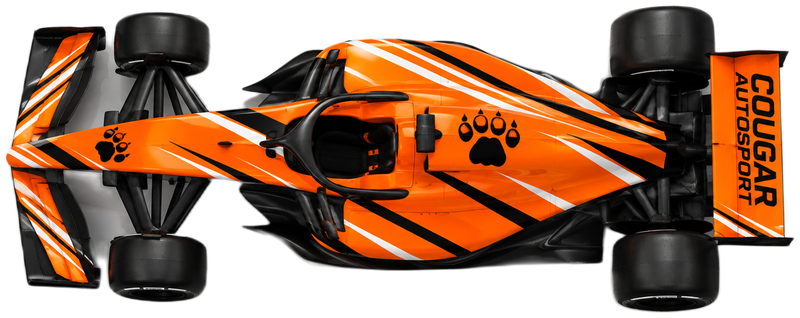
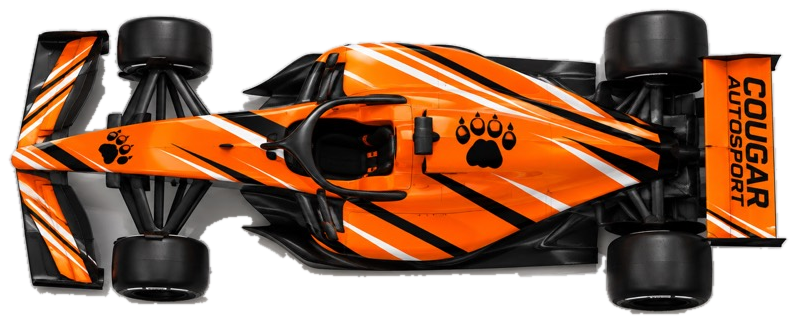
Second deck: top-view cars recut whole, wings and wheels back
u2net at 320px took the thin parts for background, so Drivetex and others
lost their front and rear wings and some wheels. scripts/recut-cars.py floods
the studio background in from the frame edge and keeps everything else. The
leading car on card 1 moves from -4% to 1% so the lane no longer clips its
front wing.

Claude-Session: https://claude.ai/code/session_01LKtdZbyseVsjRaEVm2KvNM

Changed region(s): [[0.0, 0.0, 0.9937, 0.9906], [0.813, 0.7925, 0.8432, 0.8208], [0.4517, 0.4528, 0.4818, 0.4811]]

diff --git a/src/WeeklyV2.jsx b/src/WeeklyV2.jsx
@@ -142,7 +142,7 @@ function FinishLine({ myTeam, oppTeam, outcome }) {
           backgroundImage: `repeating-linear-gradient(90deg, ${V.border2} 0 18px, transparent 18px 34px)` }} />
       ))}
       {car(behind, behindC, { left: "30%", top: "6%" }, 1, true)}
-      {car(ahead, aheadC, { left: "-4%", top: "50%" }, 2, false)}
+      {car(ahead, aheadC, { left: "1%", top: "50%" }, 2, false)}
     </div>
   );
 }

diff --git a/scripts/recut-cars.py b/scripts/recut-cars.py
@@ -1,0 +1,37 @@
+"""Cut the studio background off the car renders by flood fill from the edge.
+
+u2net at 320px took the thin parts (wings, wheels) for background. The studio
+is a near-white grey with almost no colour, so anything bright, colourless,
+smooth and connected to the edge of the frame is background, and everything
+else, however thin, stays.
+"""
+import sys, glob, os
+import numpy as np
+from PIL import Image, ImageFilter
+from scipy import ndimage as ndi
+
+src_dir, out_dir = sys.argv[1:3]
+for f in sorted(glob.glob(os.path.join(src_dir, "*.jpg"))):
+    im = Image.open(f).convert("RGB")
+    a = np.asarray(im).astype(np.float32)
+    L = a.mean(2); C = a.max(2) - a.min(2)
+    g = np.hypot(ndi.sobel(L, 0), ndi.sobel(L, 1)) / 8
+    cand = (((C < 20) & (L > 120)) | ((C < 40) & (L > 185))) & (g < 6)
+    lab, _ = ndi.label(cand)
+    edge = set(np.unique(np.concatenate([lab[0], lab[-1], lab[:, 0], lab[:, -1]]))) - {0}
+    bg = np.isin(lab, list(edge))
+    # The seams the gradient test leaves between background regions.
+    bg = ndi.binary_closing(bg, iterations=2) | bg
+    fg = ~bg
+    fg = ndi.binary_opening(fg, iterations=1)
+    # Drop specks: keep components of a real size.
+    lab2, n = ndi.label(fg)
+    sizes = ndi.sum(fg, lab2, range(1, n + 1))
+    fg = np.isin(lab2, [i + 1 for i, s in enumerate(sizes) if s >= 0.05 * sizes.max()])
+    m = Image.fromarray((fg * 255).astype(np.uint8)).filter(ImageFilter.GaussianBlur(0.7))
+    rgba = im.convert("RGBA"); rgba.putalpha(m)
+    bbox = m.point(lambda v: 255 if v > 24 else 0).getbbox()
+    pad = 8
+    bbox = (max(0, bbox[0] - pad), max(0, bbox[1] - pad), min(im.width, bbox[2] + pad), min(im.height, bbox[3] + pad))
+    rgba = rgba.crop(bbox)
+    rgba.save(os.path.join(out_dir, os.path.basename(f)[:-4] + ".png"), optimize=True)

diff --git a/CLAUDE.md b/CLAUDE.md
@@ -849,7 +849,7 @@ Built 2026-10-05 at Andrew's ask: "more white space and have each card have a cl
 
 Files. `src/WeeklyV2.jsx` is the cards and the shell. `src/weeklyV2.js` is pure: `buildWeeklyV2(buildWeekly(...))` regroups what buildWeekly already holds, no new scoring rule. `scripts/smoke-weekly2.jsx` (`npm run smoke:weekly2`) renders all six cards for all 48 and asserts the matchup arithmetic closes (named differences plus the line equals the margin) and the box score lines sum to the score. The shell, Head, Face, Logo, Count, StandingsTable and CardNext come from `Weekly.jsx` through the export at its end, so the two decks share one copy.
 
-**The cars.** `public/cars/<CODE>-top.png` and `<CODE>-side.png`, 24 teams, transparent cutouts 800 wide, from Hedra renders Andrew made 2026-10-05. Named by eye from contact sheets, the SPC Network pattern; the source PNGs sit in `hedra_assets_2026-10-05/`, ignored by git. The studio background came off with u2net through `scripts/cut-cars.py` (onnxruntime, Pillow and numpy installed with `pip --user`, the model is `u2net.onnx` from the rembg releases, 176MB, not in the repo). A colour key was tried first and failed: the studio is a vignette with a horizon and a floor reflection, so no threshold cleans it. Top views face left. Card 1 draws both top views on a lane with a checkered line down the left, the winner's nose across it (Andrew: "crossing the finish line first"). `CarImg` tries the PNG, then a JPEG, then the logo, so a team with no car is never blank. The side views are unused so far.
+**The cars.** `public/cars/<CODE>-top.png` and `<CODE>-side.png`, 24 teams, transparent cutouts 800 wide, from Hedra renders Andrew made 2026-10-05. Named by eye from contact sheets, the SPC Network pattern; the source PNGs sit in `hedra_assets_2026-10-05/`, ignored by git. The side views came off with u2net through `scripts/cut-cars.py` (the model is `u2net.onnx` from the rembg releases, 176MB, not in the repo). **The top views are recut with `scripts/recut-cars.py`, 2026-10-06**: u2net works at 320px and took the thin parts for background, so Drivetex and others lost their front and rear wings and some wheels. The recut floods the background in from the frame edge (bright, nearly colourless, smooth) and keeps everything else, however thin; it reads the 800-wide studio JPEGs from git (`git show dafa4c2^:public/cars/<CODE>-top.jpg`). Bronco keeps a sliver of floor reflection under the rear. Check a recut on a dark contact sheet before committing it. Top views face left. Card 1 draws both top views on a lane with a checkered line down the left, the winner's nose across it (Andrew: "crossing the finish line first"). The leading car sits at `left: 1%`: the lane hides overflow, and at -4% it clipped the front wing. `CarImg` tries the PNG, then a JPEG, then the logo, so a team with no car is never blank. The side views are unused so far.
 
 **The podium.** The top three are one picture, not three tiles (Andrew, 2026-10-05): P1 in the middle and biggest, P2 and P3 either side, lower and behind, the player card's square photo with the side fades doing the overlap. Place, name and team under each, bigger than anything else on the card, and the scores count in. The three land slowly, then the rows of four. This card sits at the fit floor on a 375 by 667 phone, so anything added to it comes off something else.
 
